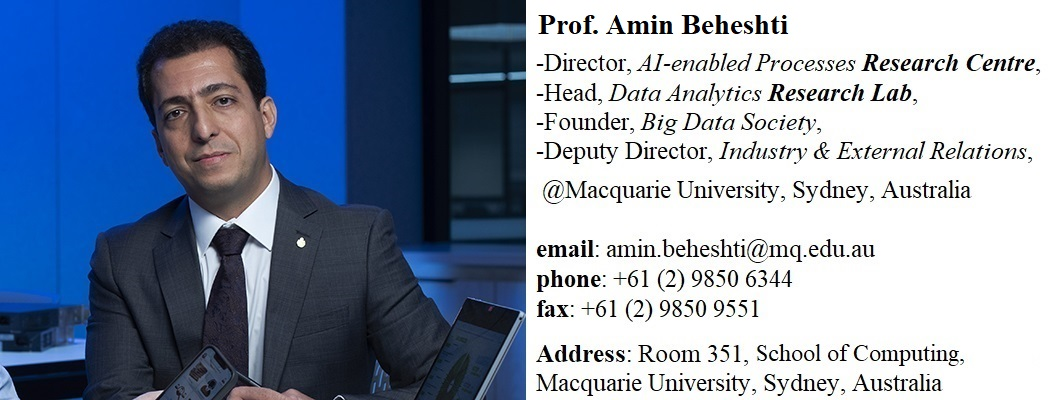
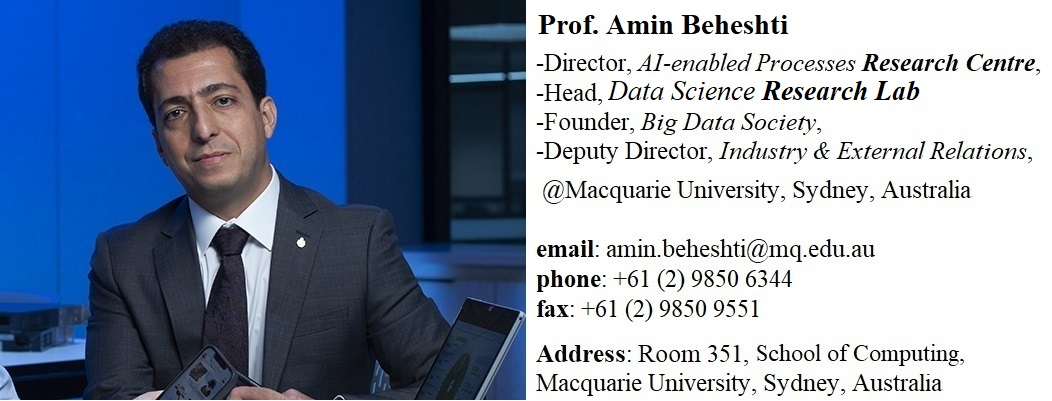
Add files via upload

diff --git a/people/aminbeheshti/index.html b/people/aminbeheshti/index.html
@@ -52,7 +52,7 @@
 <table border="0" width="100%">
     <tr>
         <td style="text-align:justify">
-            Prof. Dr. Amin Beheshti is a Full Professor of Data Science and the Director of <a href="https://aip-research-center.github.io/" target="_blank">AI-enabled Processes (AIP) Research Centre</a>, School of Computing, Macquarie University. Amin is also the head of the <a href="https://data-science-group.github.io" target="_blank">Data Analytics Research Lab</a> and Adjunct Academic in Computer Science at <a href="https://www.unsw.edu.au/">UNSW Sydney</a>. Amin completed his Ph.D. and Postdoc in Computer Science and Engineering at UNSW Sydney and holds a Master and Bachelor in Computer Science both with First Class Honours. In addition to his contribution to teaching activities, Amin extensively contributed to research projects; where he was the R&amp;D Team Lead and Key Researcher in the 'Case Walls &amp; Data Curation Foundry' and 'Big Data for Intelligence' projects. These Projects won the National Security Impact Award in 2016 and 2017. Amin has been recognized as a high-quality researcher in Big-Data/Data/Process Analytics and  served as <a href="#C4">Keynote Speaker, General-Chair, PC-Chair, Organisation-Chair, and program committee member</a> of top international conferences. He is the leading author of several authored books in data, social, and process analytics, co-authored with other high-profile researchers. Amin was able to secure over <b>$17 Million</b> in Research Grants for AI-Enabled, Data-Centric, and Intelligence-Led projects.
+            Prof. Dr. Amin Beheshti is a Full Professor of Data Science and the Director of <a href="https://aip-research-center.github.io/" target="_blank">AI-enabled Processes (AIP) Research Centre</a>, School of Computing, Macquarie University. Amin is also the head of the <a href="https://data-science-group.github.io" target="_blank">Data Science Research Lab</a> and Adjunct Academic in Computer Science at <a href="https://www.unsw.edu.au/">UNSW Sydney</a>. Amin completed his Ph.D. and Postdoc in Computer Science and Engineering at UNSW Sydney and holds a Master and Bachelor in Computer Science both with First Class Honours. In addition to his contribution to teaching activities, Amin extensively contributed to research projects; where he was the R&amp;D Team Lead and Key Researcher in the 'Case Walls &amp; Data Curation Foundry' and 'Big Data for Intelligence' projects. These Projects won the National Security Impact Award in 2016 and 2017. Amin has been recognized as a high-quality researcher in Big-Data/Data/Process Analytics and  served as <a href="#C4">Keynote Speaker, General-Chair, PC-Chair, Organisation-Chair, and program committee member</a> of top international conferences. He is the leading author of several authored books in data, social, and process analytics, co-authored with other high-profile researchers. Amin was able to secure over <b>$17 Million</b> in Research Grants for AI-Enabled, Data-Centric, and Intelligence-Led projects.
         </td> 
     </tr>
 </table> <hr />
